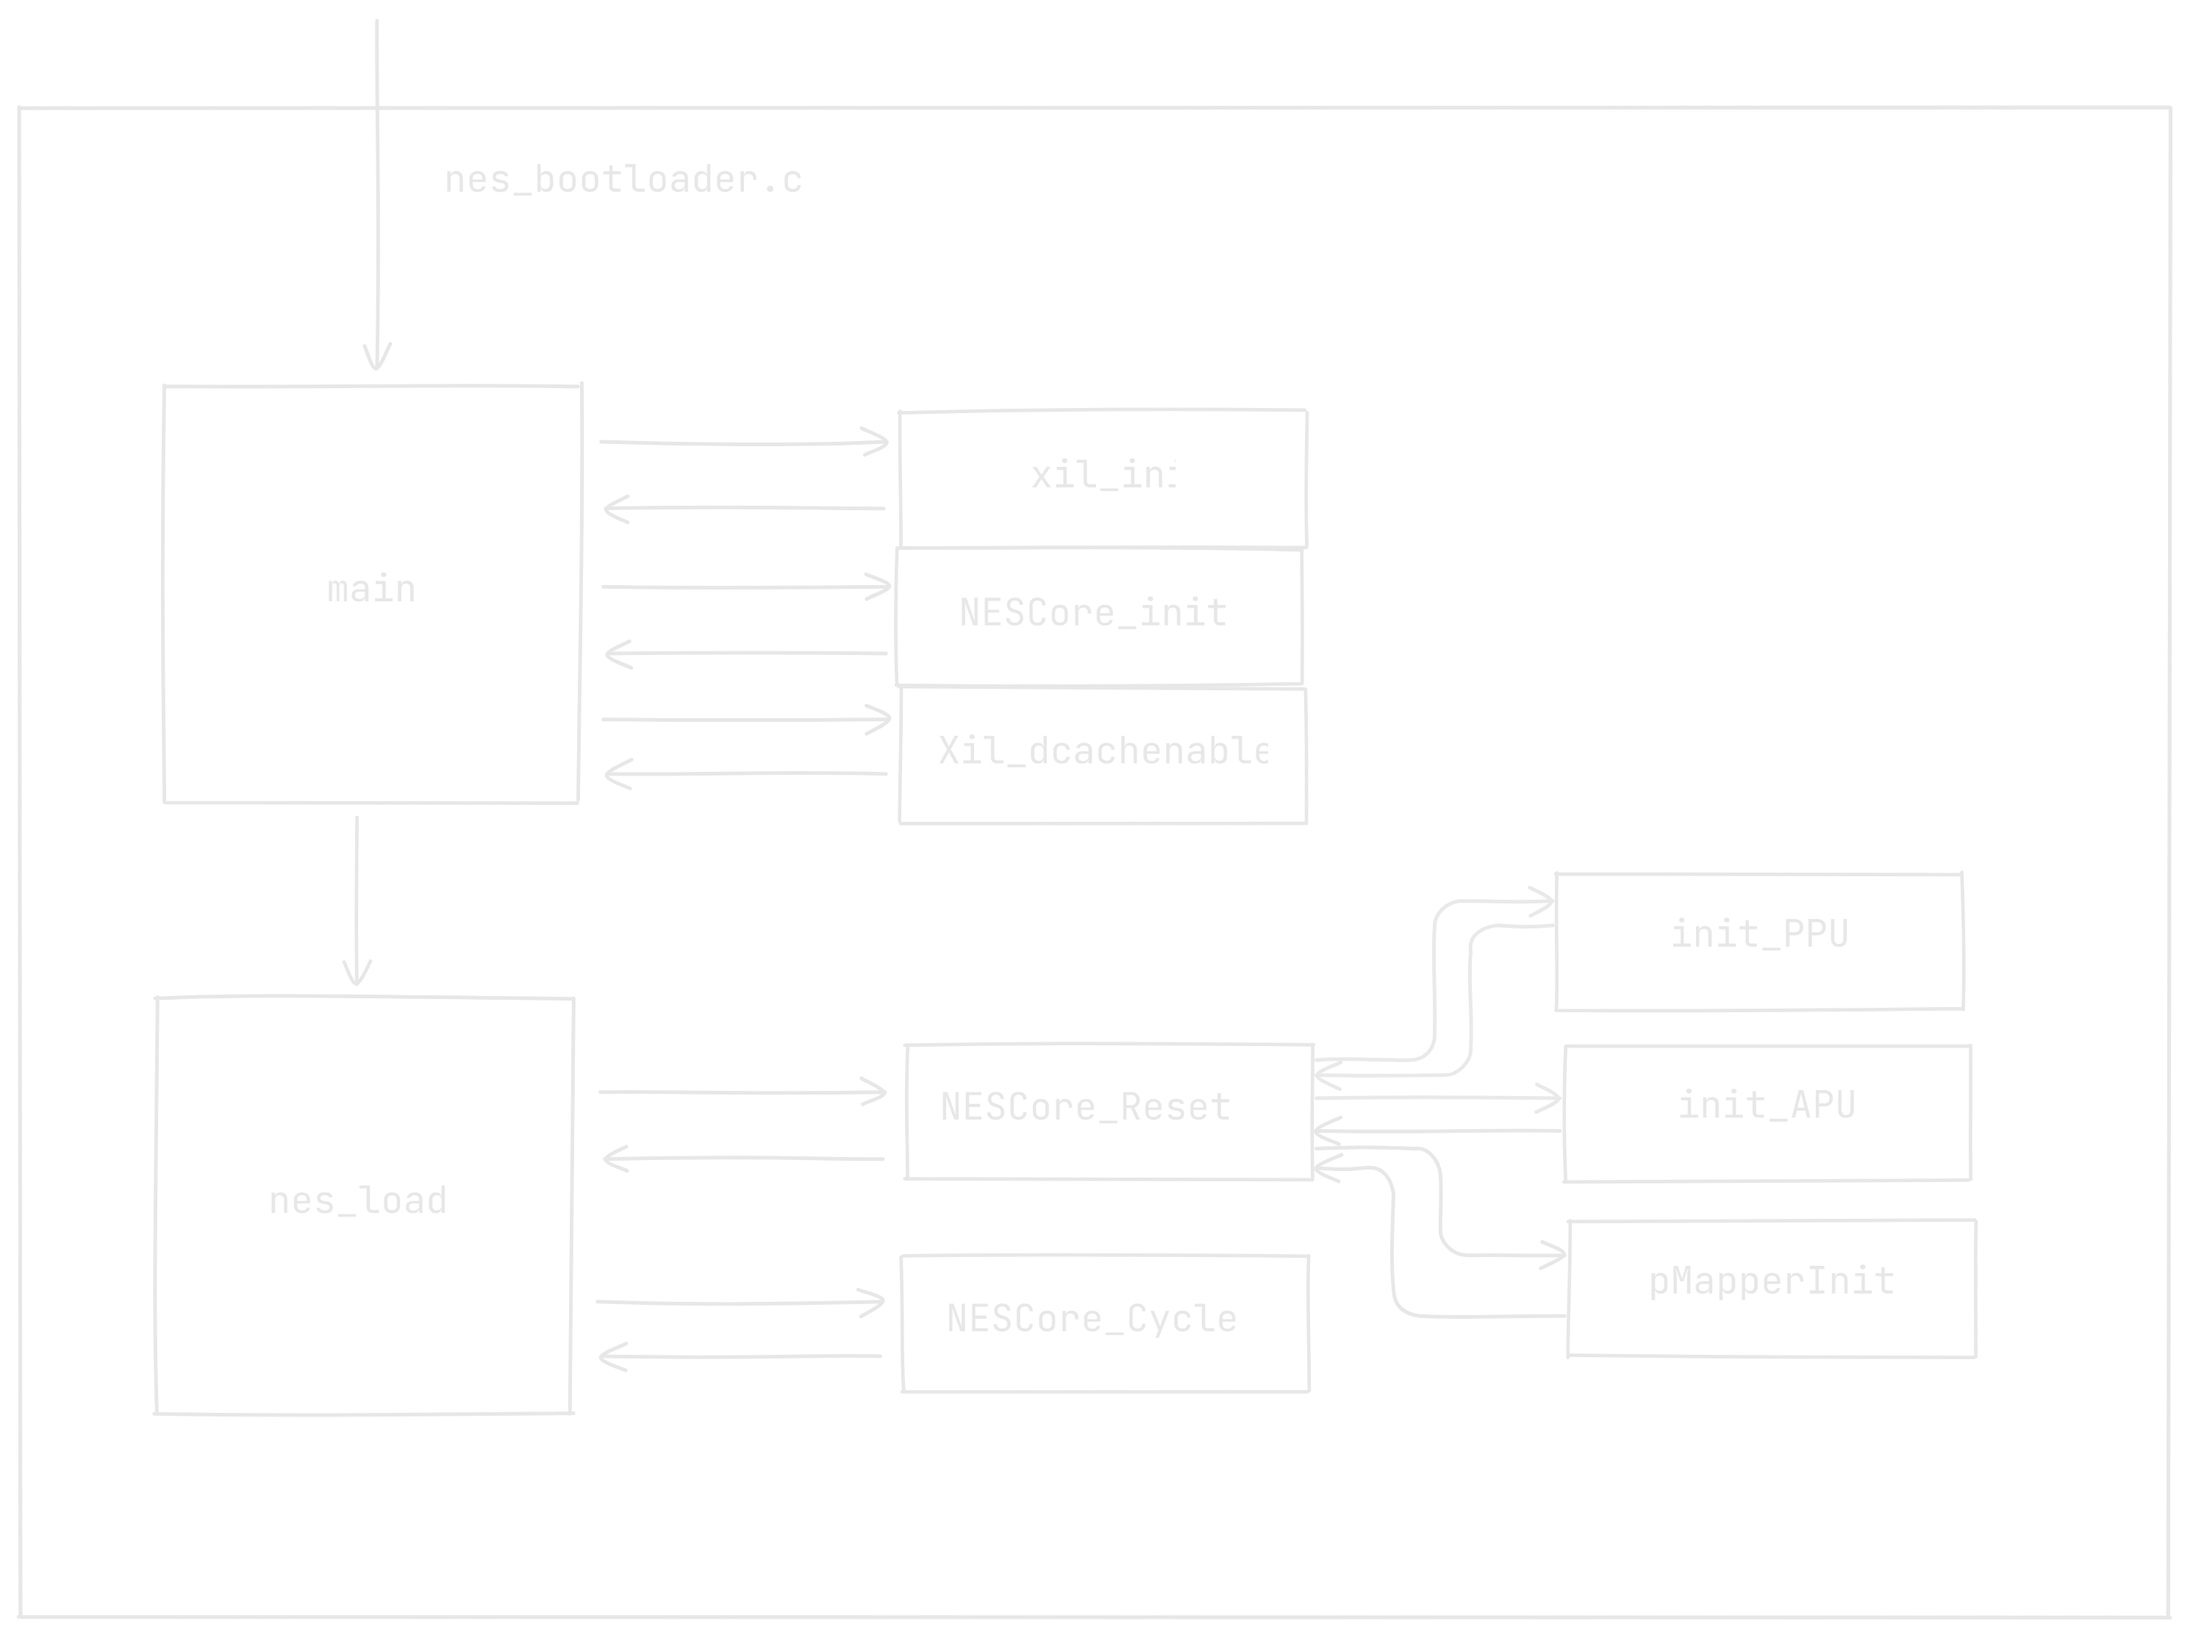
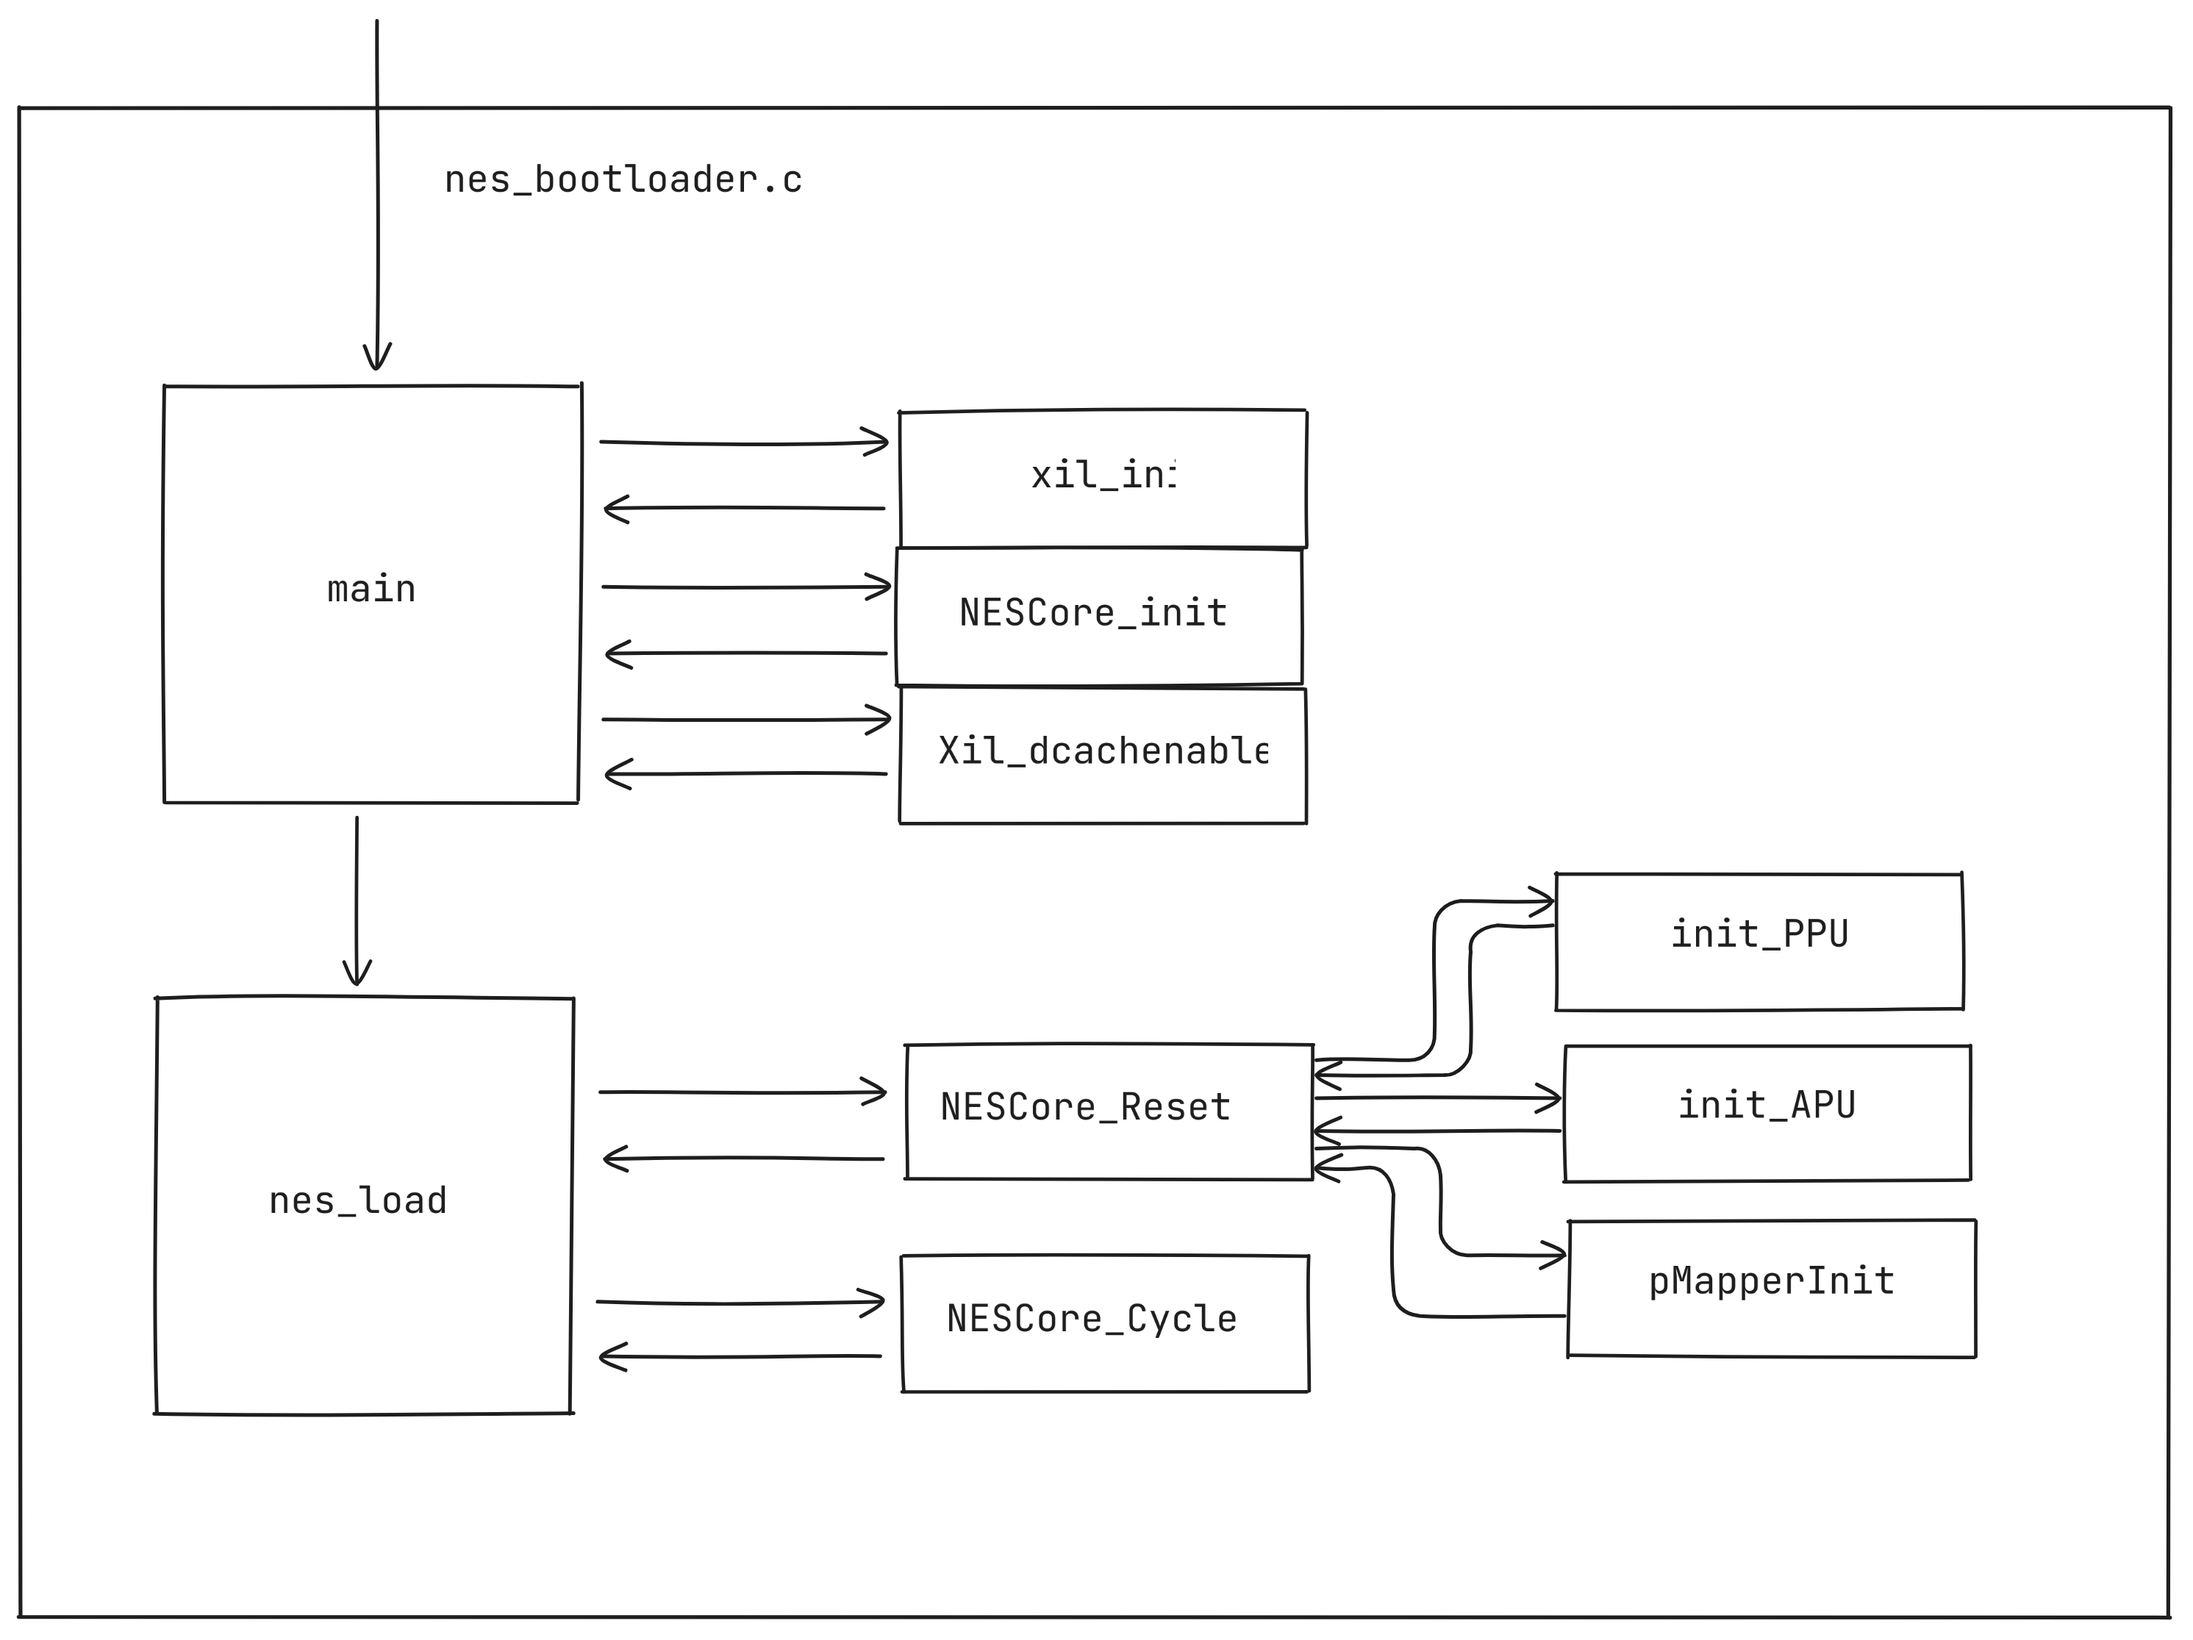
-Elaborated on the PL-PS configurations.

diff --git a/SB3_MP0_Report.md b/SB3_MP0_Report.md
@@ -1,4 +1,4 @@
-# Report
+<h1 style="text-align:center">SB3 MP0 Report</h1>
 
 ## Describe how nes_bootloader.c currently works. Using a similar approach as what is presented in Chapter 1 of the Wolf textbook, draw a high-level structural diagram.
 
@@ -113,20 +113,29 @@ The configuration options are run, debug, and hardware (single application debug
 
 We analyzed the following three green boxes;
 
-Generic Interrupt Controller (GIC )
+**Generic Interrupt Controller (GIC)**
 - Interrupts for programmable logic (PL) and processing systems (PS)
 - PL-PS Interrupt Ports
   - Can enable fast or not fast interrupt signals from PL to PS (CPU 0 or CPU 1)
   - Enable 16-bit shared interrupt port from PL
-- PS-PL Interrupt Ports
+- **PS-PL Interrupt Ports**
   - Enable interrupts from DMAC, SMC, QSPI, CTI, GPIO, USB, SDIO, ETHERNET, I2C, SPI, UART, CAN to PL
+	
+	**Usefulness Description:**
+	Having interrupt functionality is extremely important when working with embedded systems since they enable the CPU to respond to stimuli almost immediately. This removes the need to poll the status of a component or peripheral, which wastes CPU time. For example, let's say the embedded system has a UART module that is receiving data. Instead of polling the FIFO status register to know when data can be read out, an interrupt can be setup that will interrupt the CPU when a new character is ready to be read from the FIFO. Then the CPU will execute the interrupt handler, which reads the character. After the character is read, the CPU restores its previous state. No polling of status registers was needed to read out of the FIFO, which saved a lot of CPU time.
 
-System Watch Dog Timer (SWDT)
+**System Watch Dog Timer (SWDT)**
   - Can enable Watch dog timer in APU
   - Change IO (EMIO or MIO)
 
-Direct Memory Access Controller (DMA8 Controller)
+	**Usefulness Description:**
+	Watchdog timers are useful in embedded systems to make sure that some process is not taking control of the CPU permanently and to handle hardware exceptions. Specifically, the watchdog timers can be used to make sure a set of asynchronous processes or threads are not taking up too much CPU time.
+
+**Direct Memory Access Controller (DMA Controller)**
 - Enable peripheral request interfaces that supports the connection of DMA-capable peripherals resident in the PL
+
+	**Usefulness Description:**
+	DMA is extremely useful in embedded systems when many memory operations or required. Instead of using up CPU time to facilitate memory operations, the CPU just has to tell the DMA what memory operations should be done and it executes them. This saves tons of CPU time, which is always desired when developing an embedded system. However, synchronization between the CPU and DMA must be established. This is usually done using interrupts, which were previously discussed.
 
 ## Step 5: Are these buttons, LEDs, and switches connected via the PS subsystem or the PL subsystem? Briefly defend your answer. Note also that all three peripherals appear to be the same exact IP type (axi_gpio) – how can this be possible?
  
@@ -236,7 +245,8 @@ Some other important considerations were that the input clock had to be as close
 
 Our VDMA register configurations were as follows:
 
-```// Simple function abstraction by Vendor for writing VDMA registers
+```c
+// Simple function abstraction by Vendor for writing VDMA registers
     XAxiVdma_WriteReg(XPAR_AXI_VDMA_0_BASEADDR, XAXIVDMA_CR_OFFSET,  0x00000003);  // Read Channel: VDMA MM2S Circular Mode and Start bits set, VDMA MM2S Control
     XAxiVdma_WriteReg(XPAR_AXI_VDMA_0_BASEADDR, XAXIVDMA_HI_FRMBUF_OFFSET, 0x00000001);  // Read Channel: VDMA MM2S Reg_Index
     XAxiVdma_WriteReg(XPAR_AXI_VDMA_0_BASEADDR, XAXIVDMA_MM2S_ADDR_OFFSET + XAXIVDMA_START_ADDR_OFFSET, (UINTPTR)test_image);  // Read Channel: VDMA MM2S Frame buffer Start Addr 1
@@ -267,6 +277,7 @@ Second, we shift the given color value to the right by 1 byte to get the green v
 Third, we shift the given color value to the right by 4 bits to get the blue value.
 
 Here is our function:
+
 ```c
 // Example: 0xC8103E
 // 0xC8 -> Red | 0x10 -> Green | 0x3E -> Blue
@@ -293,7 +304,6 @@ u16 convert_color_24_16(u32 color)
 	return r | g | b;
 }
 ```
-
 ## Modify the nes_bootloader code such that the NES games are reasonably playable. In your report, describe your general approach to implementing both of the NESCore_Callback functions.
 
 For the “NESCore_Callback_OutputFrame,” our task was to expand the 256x240 image to a 640x480 resolution. For this, we first started by finding the scalar needed to enlarge the image. This scalar was then used to repeat the WorkFrame multiple times for every pixel read. Once implemented, we realized that we needed to add borders to our image since we couldn’t have scalars that weren’t whole numbers. We just found the missing pixels and added them as black borders before reading the WorkFrame.
